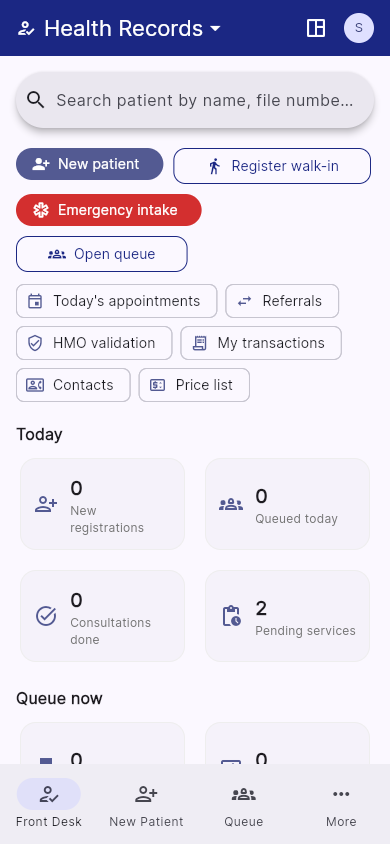
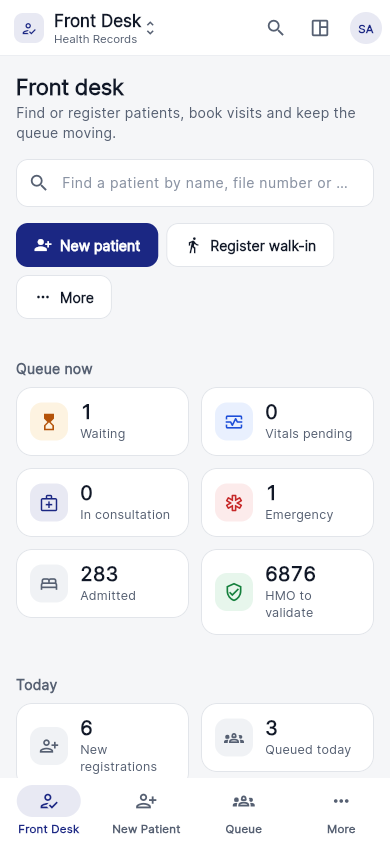
feat(native): staff app UI overhaul (design system, light/dark, new shell and record layout)
The staff app now has one design system that every screen inherits:
- Semantic light/dark palette with a contrast-safe hospital accent, Inter type scale, and every
  Material component themed. Appearance setting (System / Light / Dark).
- New shell: collapsible sidebar, top bar with breadcrumb, Ctrl/Cmd K patient search and account
  menu; records open beside the sidebar on desktop/tablet (a navigator per destination).
- Every patient record (nursing, consultation, maternity, baby, billing, reception, surgery) uses
  one frame: patient banner + grouped sections.
- Desks (nursing, maternity, billing, reception, surgery, home) use metric tiles, one primary
  action and clean patient lists. New sign-in.
- ~900 hard-coded colours replaced; a design guard test keeps them out.
Docs: user guide (navigation, search, appearance, record layout) with new screenshots; developer
reference (shell and design system).

Native parity: updated (UI only; no feature or API change)
Ecosystem impact: staff app updated. Patient app, Super Admin, Scribe SDKs, DHIS2 and WeCare247
not affected (no route, payload, event, setting, role or sidebar change).

diff --git a/docs/user-guides/native-client.md b/docs/user-guides/native-client.md
@@ -12,12 +12,23 @@ The **CoreHealth Staff App** is one app for every staff member, on a phone, tabl
 
 **Where:** open the app → enter the hospital server address (first time only) → sign in with your staff email and password.
 
+![Sign in on a computer](/images/workbenches/native-desktop-sign-in.png)
+
 - Patient accounts and deactivated staff cannot sign in to this app.
-- **Phone:** the current workspace name is at the top; tap it to switch workspace. The bottom bar shows its main screens; **More** lists the rest.
-- **Tablet:** the same, with a navigation rail on the left.
-- **Computer:** a full sidebar, exactly like the web, with every workspace and item.
+- **Computer:** a sidebar on the left lists every workspace and item in the web's order. **Collapse** at the bottom shrinks it to icons. The bar along the top shows where you are (*Workspace › Screen*), **Search patients**, **Messenger** and your account.
+- **Tablet:** the sidebar shows as icons only; hover or long-press an icon to see its name.
+- **Phone:** the current screen and workspace are at the top; tap them to switch workspace. The bottom bar shows the workspace's main screens and **More** lists the rest. The magnifier opens patient search.
+- On a computer or tablet, records open **beside the sidebar**, so you never lose your place. Use the back arrow on the record, or tap the sidebar item again to go back to the list.
 
 ![Workspace switcher on a tablet](/images/workbenches/native-tablet-workspace-switcher.png)
+
+### Search for a patient from anywhere
+Press **Ctrl K** (**⌘K** on a Mac), or click **Search patients** in the top bar. Type at least two letters of the name, the file number or the phone number. Use the arrow keys and **Enter**, or click, to open the patient. The patient opens in the current workspace's own record: the nursing record in Nursing, the bill in Billing, the patient hub in Health Records, and the enrolment in Maternity.
+
+![Patient search](/images/workbenches/native-desktop-patient-search.png)
+
+### Light or dark
+Open your account (your initials, top right) → **Appearance** → **System**, **Light** or **Dark**. *System* follows your device. The hospital's colour is kept in both modes.
 
 Items marked **Web** aren't native yet: they open the same page on the web (you may need to sign in there too).
 
@@ -37,7 +48,14 @@ Items marked **Web** aren't native yet: they open the same page on the web (you 
 
 ### Patient record
 
-Tap a patient to open their record. The header shows the file number, age, gender, HMO, account balance, allergies and **clinical alerts** (tap the alert strip to add, edit or remove an alert and choose who sees it). The tabs match the web workbench:
+Tap a patient to open their record. Every patient record in the app has the same layout:
+- **Banner** (top): the patient's name, file number, age and gender, plus badges for HMO, account balance and allergies. The record's main actions sit on the right; **⋮** holds the rest.
+- **Clinical alerts strip** under the banner: tap it to add, edit or remove an alert and choose who sees it.
+- **Sections:** on a computer they are listed on the left, grouped (e.g. *Activity*); on a phone they are a row of pills under the banner.
+
+![Patient record on a computer](/images/workbenches/native-desktop-patient-record.png)
+
+The sections match the web workbench:
 
 | Tab | What you can do |
 |---|---|
@@ -150,17 +168,27 @@ flowchart LR
 ```
 
 ## Billing desk
-Open **Billing → Billing Desk**. Start your shift, search a patient or pick one from the payment queue (Emergency, All unpaid, HMO items, Credit accounts). A patient's bill has tabs: **Billing** (select items, adjust quantity and discount, **Pay** by cash, POS, transfer, mobile, split, account balance, staff or organisation, or print an **Invoice**), **Walk-in**, **Receipts**, **Admissions** (bill by category) and **Account** (deposit, withdraw, adjust, statement). Receipts show as readable text; printing stays on the web.
+Open **Billing → Billing Desk** (*Payments*). Start your shift from the top right; the shift badge shows what you have collected. Tap a tile to list a payment queue (Emergency, All unpaid, HMO items, Credit accounts), or use **Search patients** (Ctrl K). A patient's bill has sections: **Billing** (select items, adjust quantity and discount, **Pay** by cash, POS, transfer, mobile, split, account balance, staff or organisation, or print an **Invoice**), **Walk-in**, **Receipts**, **Admissions** (bill by category) and **Account** (deposit, withdraw, adjust, statement). Receipts show as readable text; printing stays on the web.
 
 ## Nursing desk
-Open **Nursing → Nursing Desk**. Start your shift (choose the ward and acknowledge waiting handovers), then search a patient or pick one from a queue: **Admitted**, **Vitals due**, **Medication due**, **Bed requests**, **Discharge** or **Deceased**. The **Ward dashboard** shows beds by ward, who is waiting for a bed (assign one) and bed maintenance.
+Open **Nursing → Nursing Desk** (*Ward care*). Your shift status is at the top right: **Start shift** (choose the ward and acknowledge waiting handovers) or **End shift**. The tiles show each queue's count; tap one to list it: **Admitted**, **Vitals due**, **Medication due**, **Bed requests**, **Discharge** or **Deceased**. Use **Search patients** (Ctrl K) to find anyone else. **Ward dashboard** is the main action; **Handovers**, **Emergency intake** and **Register walk-in** are beside it, and **More** has New patient, Reports, Outreach tallies and Contacts. The **Ward dashboard** shows beds by ward, who is waiting for a bed (assign one) and bed maintenance.
 
-A patient has tabs: **Vitals** (record and edit your own within the edit window), **Medications** (tap a drug to chart doses), **Charts** (notes and intake/output), **Injections** (from ward stock, a dispensed prescription or the patient's own drug), **Immunizations** (generate the schedule, give or skip each dose), **Requests** (labs, imaging, procedures, prescriptions, service and consumable bills) and, for admitted patients, **Admission** (bed, checklists, discharge). On a patient, **Clinical story** shows the same timeline the doctor sees, and the sparkle button opens the **AI Scribe Studio**: dictate, pick Focus DAR, SBAR or SOAPIE, review the note and the orders it found (check each drug and test is the right one, use *Match catalog* if not), then **Sign & commit**. The note is filed under the note type shown (default *Others*). On **Medications**, **Add drug** charts a ward-stock or patient's-own drug that has no prescription: set a schedule or give a dose now; ward stock is taken from the chosen store and billed unless you switch billing off. **Requests** has the order sets (re-order from an earlier encounter, shared treatment plan templates, bundles). Picking a bundle shows its price and every item before you apply it; the **Bundles** list then lets you remove a single item (with a reason) or the whole bundle. **Billing** raises service, lab, imaging and consumable bills and shows the billing history. **Surgery Workbench** and **Manage Beds** are in the Nursing menu, and **Reports** is on the desk. End your shift to create the handover for the next nurse. Surgery and bed setup open on the web.
+![Nursing desk](/images/workbenches/native-desktop-nursing-desk.png)
+
+A patient record has sections grouped as *Clinical*, *Care*, *Orders & billing* and *Admission*:
+
+![Nursing patient record](/images/workbenches/native-desktop-nursing-record.png)
+
+ **Vitals** (record and edit your own within the edit window), **Medications** (tap a drug to chart doses), **Charts** (notes and intake/output), **Injections** (from ward stock, a dispensed prescription or the patient's own drug), **Immunizations** (generate the schedule, give or skip each dose), **Requests** (labs, imaging, procedures, prescriptions, service and consumable bills) and, for admitted patients, **Admission** (bed, checklists, discharge). On a patient, **Clinical story** shows the same timeline the doctor sees, and the sparkle button opens the **AI Scribe Studio**: dictate, pick Focus DAR, SBAR or SOAPIE, review the note and the orders it found (check each drug and test is the right one, use *Match catalog* if not), then **Sign & commit**. The note is filed under the note type shown (default *Others*). On **Medications**, **Add drug** charts a ward-stock or patient's-own drug that has no prescription: set a schedule or give a dose now; ward stock is taken from the chosen store and billed unless you switch billing off. **Requests** has the order sets (re-order from an earlier encounter, shared treatment plan templates, bundles). Picking a bundle shows its price and every item before you apply it; the **Bundles** list then lets you remove a single item (with a reason) or the whole bundle. **Billing** raises service, lab, imaging and consumable bills and shows the billing history. **Surgery Workbench** and **Manage Beds** are in the Nursing menu, and **Reports** is on the desk. End your shift to create the handover for the next nurse. Surgery and bed setup open on the web.
 
 ## Maternity desk
 Open **Maternity → Maternity Desk**. Search for a mother (patients who are not enrolled show **Enrol**), or choose from the queues: **Active ANC**, **Due visits**, **High risk**, **Upcoming EDD**, **Postnatal**, **Overdue immunization**, **Admitted**, **Bed requests** and **Discharge**.
 
-An enrolment has tabs: **Overview** (booking details, edit, discharge), **ANC** (visits), **History** (medical history and previous pregnancies), **Orders** (labs, imaging, procedures, prescriptions), **Delivery**, **Partograph**, **Babies** (tap a baby for details, growth and immunization), **Postnatal**, **Immunization** (the mother's schedule), **Vitals**, **Notes** and **Audit**. **Billing**, **Investigations**, the order sets and bundles work as in Nursing. **Clinical story** and the **AI Scribe Studio** (Antenatal, Labour & delivery, Postnatal, Neonatal) are on the enrolment too. The **ANC card** and **Road-to-health card** open in the app as text (printing the layout stays on the web); **Outreach** and **Reports** are on the desk.
+An enrolment opens with the **Overview**: gestation today, days to EDD, ANC visits and risk at a glance, then the booking details and the timeline. **Edit enrolment**, the **ANC card**, the **Road-to-health card** and **Discharge from care** are under **⋮** in the banner. The sections are grouped as *Pregnancy*, *Birth*, *Care*, *Orders & billing* and *Records*:
+
+![Maternity enrolment in dark mode](/images/workbenches/native-desktop-maternity-dark.png)
+
+Sections: **Overview**, **ANC** (visits), **History** (medical history and previous pregnancies), **Orders** (labs, imaging, procedures, prescriptions), **Delivery**, **Partograph**, **Babies** (tap a baby for details, growth and immunization), **Postnatal**, **Immunization** (the mother's schedule), **Vitals**, **Notes** and **Audit**. **Billing**, **Investigations**, the order sets and bundles work as in Nursing. **Clinical story** and the **AI Scribe Studio** (Antenatal, Labour & delivery, Postnatal, Neonatal) are on the enrolment too. The **ANC card** and **Road-to-health card** open in the app as text (printing the layout stays on the web); **Outreach** and **Reports** are on the desk.
 
 Everything the app saves goes through the same hospital system as the web, so billing, queues and records update for every department immediately.
 

diff --git a/docs/developer/native-client.md b/docs/developer/native-client.md
@@ -40,12 +40,23 @@ Two Flutter apps live in `native_clients/`:
   - `WorkspaceController` (Provider): cached, then refreshed workspaces, and the active one.
   - `NativeScreens`: registry of item key → native screen, plus workspace extras.
 - **`features/shell/AppShell`:** adaptive navigation.
-  - Phone (<600): bottom bar with up to 4 destinations + More.
-  - Tablet (<1200): navigation rail.
-  - Desktop: full sidebar.
-  - Destinations are kept alive in an `IndexedStack` and built lazily.
+  - Desktop (≥1200): collapsible sidebar (272 px ↔ 76 px icons), top bar (breadcrumb, patient search, Messenger, account menu with Appearance).
+  - Tablet (600–1199): the same with the sidebar collapsed to icons.
+  - Phone (<600): compact top bar (workspace switcher, search) and a bottom bar with up to 4 destinations + More.
+  - Destinations are kept alive in an `IndexedStack` and built lazily. On desktop/tablet each destination has **its own `Navigator`**, so screens pushed with `Navigator.of(context).push` open in the content area and the sidebar stays. Re-selecting the current sidebar item pops back to its first screen.
+- **`features/shell/patient_palette.dart`:** `PatientLookup.forWorkspace(key)` maps a workspace to its existing search endpoint and patient screen (nursing, billing, reception, maternity). `showPatientPalette` is the Ctrl/⌘ K search.
 - **`WebFallbackScreen`:** "Open on web" for items that aren't native yet.
 - **`core/api/AuthedApi`:** shared authenticated HTTP. Each workspace service only declares endpoints.
+
+### Design system (`lib/core/design/`)
+| File | What it gives screens |
+|---|---|
+| `tokens.dart` | `Space`, `Radii`, `PageWidth`, `StatusTone`, and `AppColors` (light/dark semantic palette as a `ThemeExtension`, read with `context.colors`). The hospital colour (`ThemeProvider.primaryColor`) becomes `accent`, adjusted to 4.5:1 contrast for each mode. |
+| `app_theme.dart` | `AppTheme.light/dark(brand)`: every Material component themed (Inter type scale, neutral surfaces, bordered cards, filled inputs). `MaterialApp(theme, darkTheme, themeMode)`; the mode is stored in `LocalStorage.themeMode`. |
+| `components.dart` | `AppPage`, `SectionCard`, `KeyValueRow`, `AppBadge`, `MetricTile`/`MetricRow`, `FilterBar`, `ActionBar`/`PageAction`, `EntityList`/`ListRow`, `Avatar`, `StateMessage`, `SkeletonList`. The older `InfoCard`, `KV`, `Tag`, `AsyncView`, `EmptyState`, `StatusBadge` and `SheetScaffold` delegate to these. |
+| `record_workspace.dart` | `RecordWorkspace` + `PatientBanner` + `RecordSection` (key, label, icon, group, badge, builder): grouped section list on wide screens, pills on phones. Used by every patient record (nursing, consultation, maternity enrolment and baby, billing, reception, surgery procedure). |
+
+`test/design_guard_test.dart` fails if a feature file uses a raw Material hue, uses the raw `primaryColor` outside the brand screens (splash, onboarding, sign-in), or if a patient record stops using `RecordWorkspace`.
 
 ## 3. Workspace parity (update with every change)
 | # | Workspace (sidebar order) | Registry key | Native in app | Still on web |
